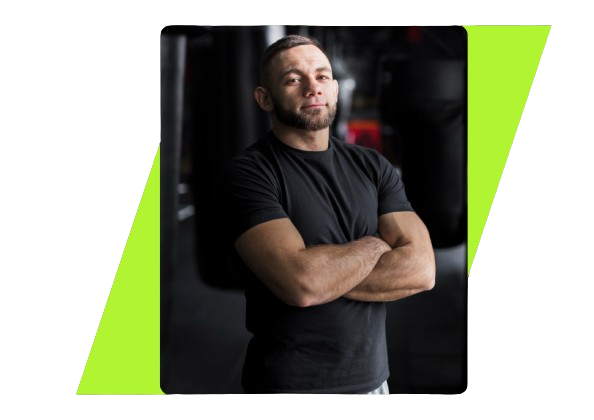
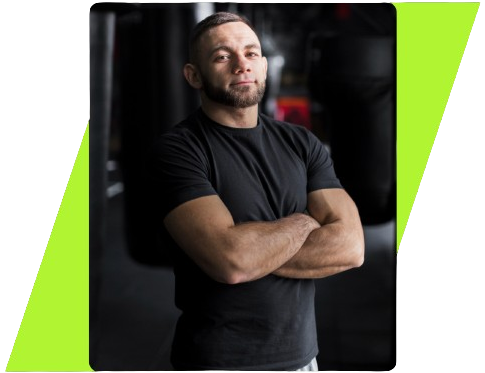
Team session styling and carousel application

diff --git a/index.html b/index.html
@@ -190,61 +190,110 @@
                 </div>  
             </div>       
         </div>       
+
+        <div class="divisor-plans"></div>
     </section>
 
     <section class="container-section" id="team">
+        <div class="title-plan">
+            <h1>MELHOR EQUIPE NO SETOR</h1>
+        </div>
+
         <div class="container-carousel">
-            
-            <div class="img-personal1">
-                <img src="/assets/images/pages/equipe/pers-musulacao.png" alt="personal"/>
+            <div class="personal-carousel">
+                <div class="personal team-musculacao">
+                    <div class="img-personal">
+                        <img src="/assets/images/pages/equipe/pers-musculacao2.png" alt="personal"/>  
+                    </div>
+    
+                <div class="descriptions">
+                    <div class="function-description">
+                        <img src="./assets/images/pages/equipe/icon-musculacao.svg" alt="muscle-icon">
+                        <p>Musculação</p>
+                    </div>
+                    <h1>Mirella Oliveira</h1>
+                    <div class="personal-description">
+                        <p>Com anos de dedicação ao fitness e um compromisso com a excelência, estou aqui para ajudá-lo a alcançar seus objetivos de força e condicionamento. Com treinos personalizados e motivação constante, vamos conquistar seus resultados juntos. Vamos começar a transformação!</p>
+                    </div>
+                </div>     
+                </div>
+    
+                <div class="personal team-boxe">
+                    <div class="img-personal">
+                        <img src="/assets/images/pages/equipe/pers-box-crossfit.png" alt="personal"/>  
+                    </div>
+    
+                <div class="descriptions">
+                    <div class="function-description">
+                        <img src="./assets/images/pages/equipe/icon-boxe.svg" alt="boxe">
+                        <p>Boxe e Crossfit</p>
+                    </div>
+                    <h1>Manoel Rocha</h1>
+                    <div class="personal-description">
+                        <p>Atuo à 5 anos no mundo do fitness com uma paixão duradoura pelo boxe e CrossFit, tenho treinado e orientado atletas de todos os níveis. Minha abordagem é focada no desenvolvimento técnico, resistência e superação de limites, ajudando meus clientes a alcançarem resultados significativos e duradouros.</p>
+                    </div>
+                </div>     
+                </div>
+    
+                <div class="personal team-pilates">
+                    <div class="img-personal">
+                        <img src="/assets/images/pages/equipe/pers-danca-pilates.png" alt="personal"/>  
+                    </div>
+    
+                <div class="descriptions">
+                    <div class="function-description">
+                        <img src="./assets/images/pages/equipe/icon-pilates.svg" alt="pilate-icon" class="pilates-icon">
+                        <p>Dança e Pilates</p>
+                    </div>
+                    <h1>Silvia Marina</h1>
+                    <div class="personal-description">
+                        <p>Com anos de experiência e amor pela arte do movimento, estou aqui para guiar você em uma jornada de expressão corporal, equilíbrio e bem-estar. Vamos dançar e fortalecer juntos, alcançando harmonia entre corpo e mente.</p>
+                    </div>
+                </div>     
+                </div>
+    
+                <div class="personal team-musculacao">
+                    <div class="img-personal">
+                        <img src="/assets/images/pages/equipe/pers-musculacao.png" alt="personal"/>  
+                    </div>
+    
+                <div class="descriptions">
+                    <div class="function-description">
+                        <img src="./assets/images/pages/equipe/icon-musculacao.svg" alt="musculacao">
+                        <p>Musculação</p>
+                    </div>
+                    <h1>Matheus Henrique</h1>
+                    <div class="personal-description">
+                        <p>A partir de anos dedicados ao fitness e comprometido com a excelência, estou pronto para ajudá-lo a atingir seus objetivos de força e condicionamento. Com treinos específicos e constante motivação, juntos alcançaremos seus resultados.</p>
+                    </div>
+                </div>     
+                </div>
+    
+                <div class="personal team-natacao">
+                    <div class="img-personal">
+                        <img src="/assets/images/pages/equipe/pers-natacao.png" alt="personal"/>  
+                    </div>
+    
+                <div class="descriptions">
+                    <div class="function-description">
+                        <img src="./assets/images/pages/equipe/icon-natacao.svg" alt="natacao">
+                        <p>Natação</p>
+                    </div>
+                    <h1>Laura Assis</h1>
+                    <div class="personal-description">
+                        <p>Através da minha experiência e amor pelo mundo aquático, estou aqui para guiá-lo em uma jornada de habilidade na água, confiança e bem-estar. Vamos mergulhar juntos e explorar os incríveis benefícios da natação.</p>
+                    </div>
+                </div>     
+                </div>
             </div>
-            <div class="function-description">
-                <p><img src="/assets/images/pages/equipe/icon-musculacao.png" alt="icone">Musculação</p>
+            <div class="chevron chevron-left">
+                <i class="bi bi-chevron-left"></i>
             </div>
-            <div class="personal-description">
-                <p>Com mais de uma década de experiência no mundo fitness, estou aqui para ajudá-lo a alcançar seus objetivos de forma eficaz e divertida. Com treinos personalizados e motivação constante, vamos juntos conquistar seus sonhos fitness. Silvia Marina</p>
-            </div>
-
-            <div class="img-personal2">
-                <img src="/assets/images/pages/equipe/pers-box-crossfit.png" alt="personal"/>
-            </div>
-            <div class="function-description">
-                <p><img src="/assets/images/pages/equipe/icon-boxe.png" alt="icone">CrossFit e Boxe</p>
-            </div>
-            <div class="personal-description">
-                <p> Atuo à 5 anos no mundo do fitness com uma paixão duradoura pelo boxe e CrossFit, tenho treinado e orientado atletas de todos os níveis. Minha abordagem é focada no desenvolvimento técnico, resistência e superação de limites, ajudando meus clientes a alcançarem resultados significativos e duradouros. Manoel Rocha</p>
-            </div>
-
-            <div class="img-personal3">
-                <img src="/assets/images/pages/equipe/pers-danca-pilates.png" alt="personal"/>
-            </div>
-            <div class="function-description">
-                <p><img src="/assets/images/pages/equipe/icon-pilates.png" alt="icone">Dança e Pilates</p>
-            </div>
-            <div class="personal-description">
-                <p>Com anos de experiência e amor pela arte do movimento, estou aqui para guiar você em uma jornada de expressão corporal, equilíbrio e bem-estar. Vamos dançar e fortalecer juntos, alcançando harmonia entre corpo e mente! Ana Oliveira</p>
-            </div>
-
-            <div class="img-personal4">
-                <img src="/assets/images/pages/equipe/pers-musculacao2.png" alt="personal"/>
-            </div>
-            <div class="function-description">
-                <p><img src="/assets/images/pages/equipe/icon-musculacao.png" alt="icone">Musculação</p>
-            </div>
-            <div class="personal-description">
-                <p>Com anos de dedicação ao fitness e um compromisso com a excelência, estou aqui para ajudá-lo a alcançar seus objetivos de força e condicionamento. Com treinos personalizados e motivação constante, vamos conquistar seus resultados juntos. Vamos começar a transformação! Carlos Veloso</p>
-            </div>
-
-            <div class="img-personal5">
-                <img src="/assets/images/pages/equipe/pers-natacao.png" alt="personal"/>
-            </div>
-            <div class="function-description">
-                <p><img src="/assets/images/pages/equipe/icon-natacao.png" alt="icone"> Natação</p>
-            </div>
-            <div class="personal-description">
-                <p>Com minha experiência e amor pelo mundo aquático, estou aqui para guiá-lo em uma jornada de habilidade na água, confiança e bem-estar. Vamos mergulhar juntos e explorar os incríveis benefícios da natação! Laura Oliveira</p>
+            <div class="chevron chevron-right">
+                <i class="bi bi-chevron-right"></i>
             </div>
         </div>
+        <div class="divisor-activities"></div>
     </section>
 
     <section class="container-section" id="contact">

diff --git a/assets/js/pages/index/index.js b/assets/js/pages/index/index.js
@@ -1,1 +1,1 @@
-console.log("hejijd"),console.log("hejijd"),console.log("hejijd"),document.addEventListener("scroll",(function(){const e=document.querySelector(".seta-divisoria");window.scrollY>0?e.classList.add("hidden"):e.classList.remove("hidden")})),document.addEventListener("scroll",(function(){const e=document.querySelector(".seta-divisora");window.scrollY>0?e.classList.add("hidden"):e.classList.remove("hidden")})),document.addEventListener("DOMContentLoaded",(function(){const e=document.querySelectorAll(".plan"),t=document.querySelectorAll(".ball");let s=0;function o(s){document.querySelector(".container-plans").scrollLeft=e[s].offsetLeft,t.forEach(((e,t)=>{e.classList.toggle("active-ball",t===s)})),e.forEach(((e,t)=>{t!==s||e.classList.contains("premium")?(e.classList.remove("selected-no-premium"),e.classList.toggle("selected-plan",t===s)):(e.classList.add("selected-no-premium"),e.classList.toggle("selected-plan",t===s))}))}t.forEach(((e,t)=>{e.addEventListener("click",(()=>{s=t,o(s)}))})),e.forEach(((e,t)=>{e.addEventListener("click",(()=>{s=t,o(s)}))}))}));
+console.log("hejijd"),document.addEventListener("DOMContentLoaded",(function(){const e=document.querySelector(".personal-carousel"),t=document.querySelectorAll(".chevron");let n=0;const c=document.querySelectorAll(".personal").length;function o(){e.style.transform=`translateX(${-100*n}%)`}t.forEach((e=>{e.addEventListener("click",(function(){n=e.classList.contains("chevron-left")?n>0?n-1:c-1:n<c-1?n+1:0,o()}))})),o()})),document.addEventListener("scroll",(function(){const e=document.querySelector(".seta-divisoria");window.scrollY>0?e.classList.add("hidden"):e.classList.remove("hidden")})),document.addEventListener("scroll",(function(){const e=document.querySelector(".seta-divisora");window.scrollY>0?e.classList.add("hidden"):e.classList.remove("hidden")})),document.addEventListener("DOMContentLoaded",(function(){const e=document.querySelectorAll(".plan"),t=document.querySelectorAll(".ball");let n=0;function c(n){document.querySelector(".container-plans").scrollLeft=e[n].offsetLeft,t.forEach(((e,t)=>{e.classList.toggle("active-ball",t===n)})),e.forEach(((e,t)=>{t!==n||e.classList.contains("premium")?(e.classList.remove("selected-no-premium"),e.classList.toggle("selected-plan",t===n)):(e.classList.add("selected-no-premium"),e.classList.toggle("selected-plan",t===n))}))}t.forEach(((e,t)=>{e.addEventListener("click",(()=>{n=t,c(n)}))})),e.forEach(((e,t)=>{e.addEventListener("click",(()=>{n=t,c(n)}))}))}));

diff --git a/assets/css/pages/equipe/team.css b/assets/css/pages/equipe/team.css
@@ -1,0 +1,91 @@
+#team{
+    position: relative;
+    background-color: var(--cor-blackClaro);
+    height: 90vh;
+    padding: 5px;
+}
+
+
+.container-carousel{
+    position: relative;
+    width: 100%;
+    overflow: hidden;
+    margin-top: 3rem;
+}
+
+.personal-carousel {
+    display: flex;
+    transition: transform 0.8s ease-in-out;
+}
+
+.personal{
+    display: flex;
+    min-width: 100%;
+    justify-content: center;
+}
+
+.img-personal{
+    position: relative;
+}
+
+.bi-chevron-right, .bi-chevron-left{
+    font-size: 1.5rem;
+}
+
+.chevron-right, .chevron-left{
+    position: absolute;
+    display: flex;
+    align-items: center;
+    justify-content: center;
+    background-color: var(--cor-blackEscuro);
+    top: 80%;
+    border-radius: 50%;
+    width: 3rem;
+    height: 3rem;
+    cursor: pointer;
+}
+
+.chevron-left{
+    left: 9rem;
+}
+
+.chevron-right{
+    right: 46.5rem;
+}
+
+.chevron-right:hover, .chevron-left:hover{
+    background-color: var(--cor-cinzaClaro);
+    transform: translateY(-1px)
+}
+
+.function-description{
+    display: flex;
+    height: fit-content;
+    width: fit-content;
+    padding: 0.3rem 0.8rem;
+    align-items: center;
+    gap: 0.3rem;
+    background-color: var(--cor-blackEscuro);
+    border-radius: 13rem;
+    margin-bottom: 3rem;
+}
+
+.function-description img{
+    background: radial-gradient(circle, #413e3e, #413e3e,#b0f432);
+    border-radius: 50%;
+    padding: 0.3rem;
+    width: 2rem;
+    height: 2rem;
+}
+
+.descriptions h1{
+    font-size: 2.5rem;
+    margin-bottom: 1rem;
+}
+
+.personal-description{
+    max-width: 600px;
+}
+
+
+

diff --git a/assets/js/pages/equipe/team.js b/assets/js/pages/equipe/team.js
@@ -1,1 +1,23 @@
-console.log('hejijd')
+document.addEventListener('DOMContentLoaded', function() {
+    const carousel = document.querySelector('.personal-carousel');
+    const chevrons = document.querySelectorAll('.chevron');
+    let currentIndex = 0;
+    const totalItems = document.querySelectorAll('.personal').length;
+
+    function updateCarrousel() {
+        carousel.style.transform = `translateX(${-(currentIndex * 100)}%)`;
+    }
+
+    chevrons.forEach(chevron => {
+        chevron.addEventListener('click', function() {
+            if (chevron.classList.contains('chevron-left')) {
+                currentIndex = (currentIndex > 0) ? currentIndex - 1 : totalItems - 1;
+            } else {
+                currentIndex = (currentIndex < totalItems - 1) ? currentIndex + 1 : 0;
+            }
+            updateCarrousel();
+        });
+    });
+
+    updateCarrousel();
+});

diff --git a/assets/css/pages/planos/plans.css b/assets/css/pages/planos/plans.css
@@ -1,6 +1,7 @@
 #plans{
+    position: relative;
     background-color: var(--cor-blackEscuro);
-    height: 95vh;
+    height: 100vh;
     padding: 5px;
 }
 
@@ -142,5 +143,14 @@
     color: var(--cor-blackEscuro);
 }
 
+.divisor-plans{
+    z-index: 0;
+    bottom: 0;
+    left: 0;
+    position: absolute;
+    background: linear-gradient(#2b2b2b,#2b2b2b,#3b3d41);
+    width: 100vw;
+    height: 4rem;
+}
 
 
